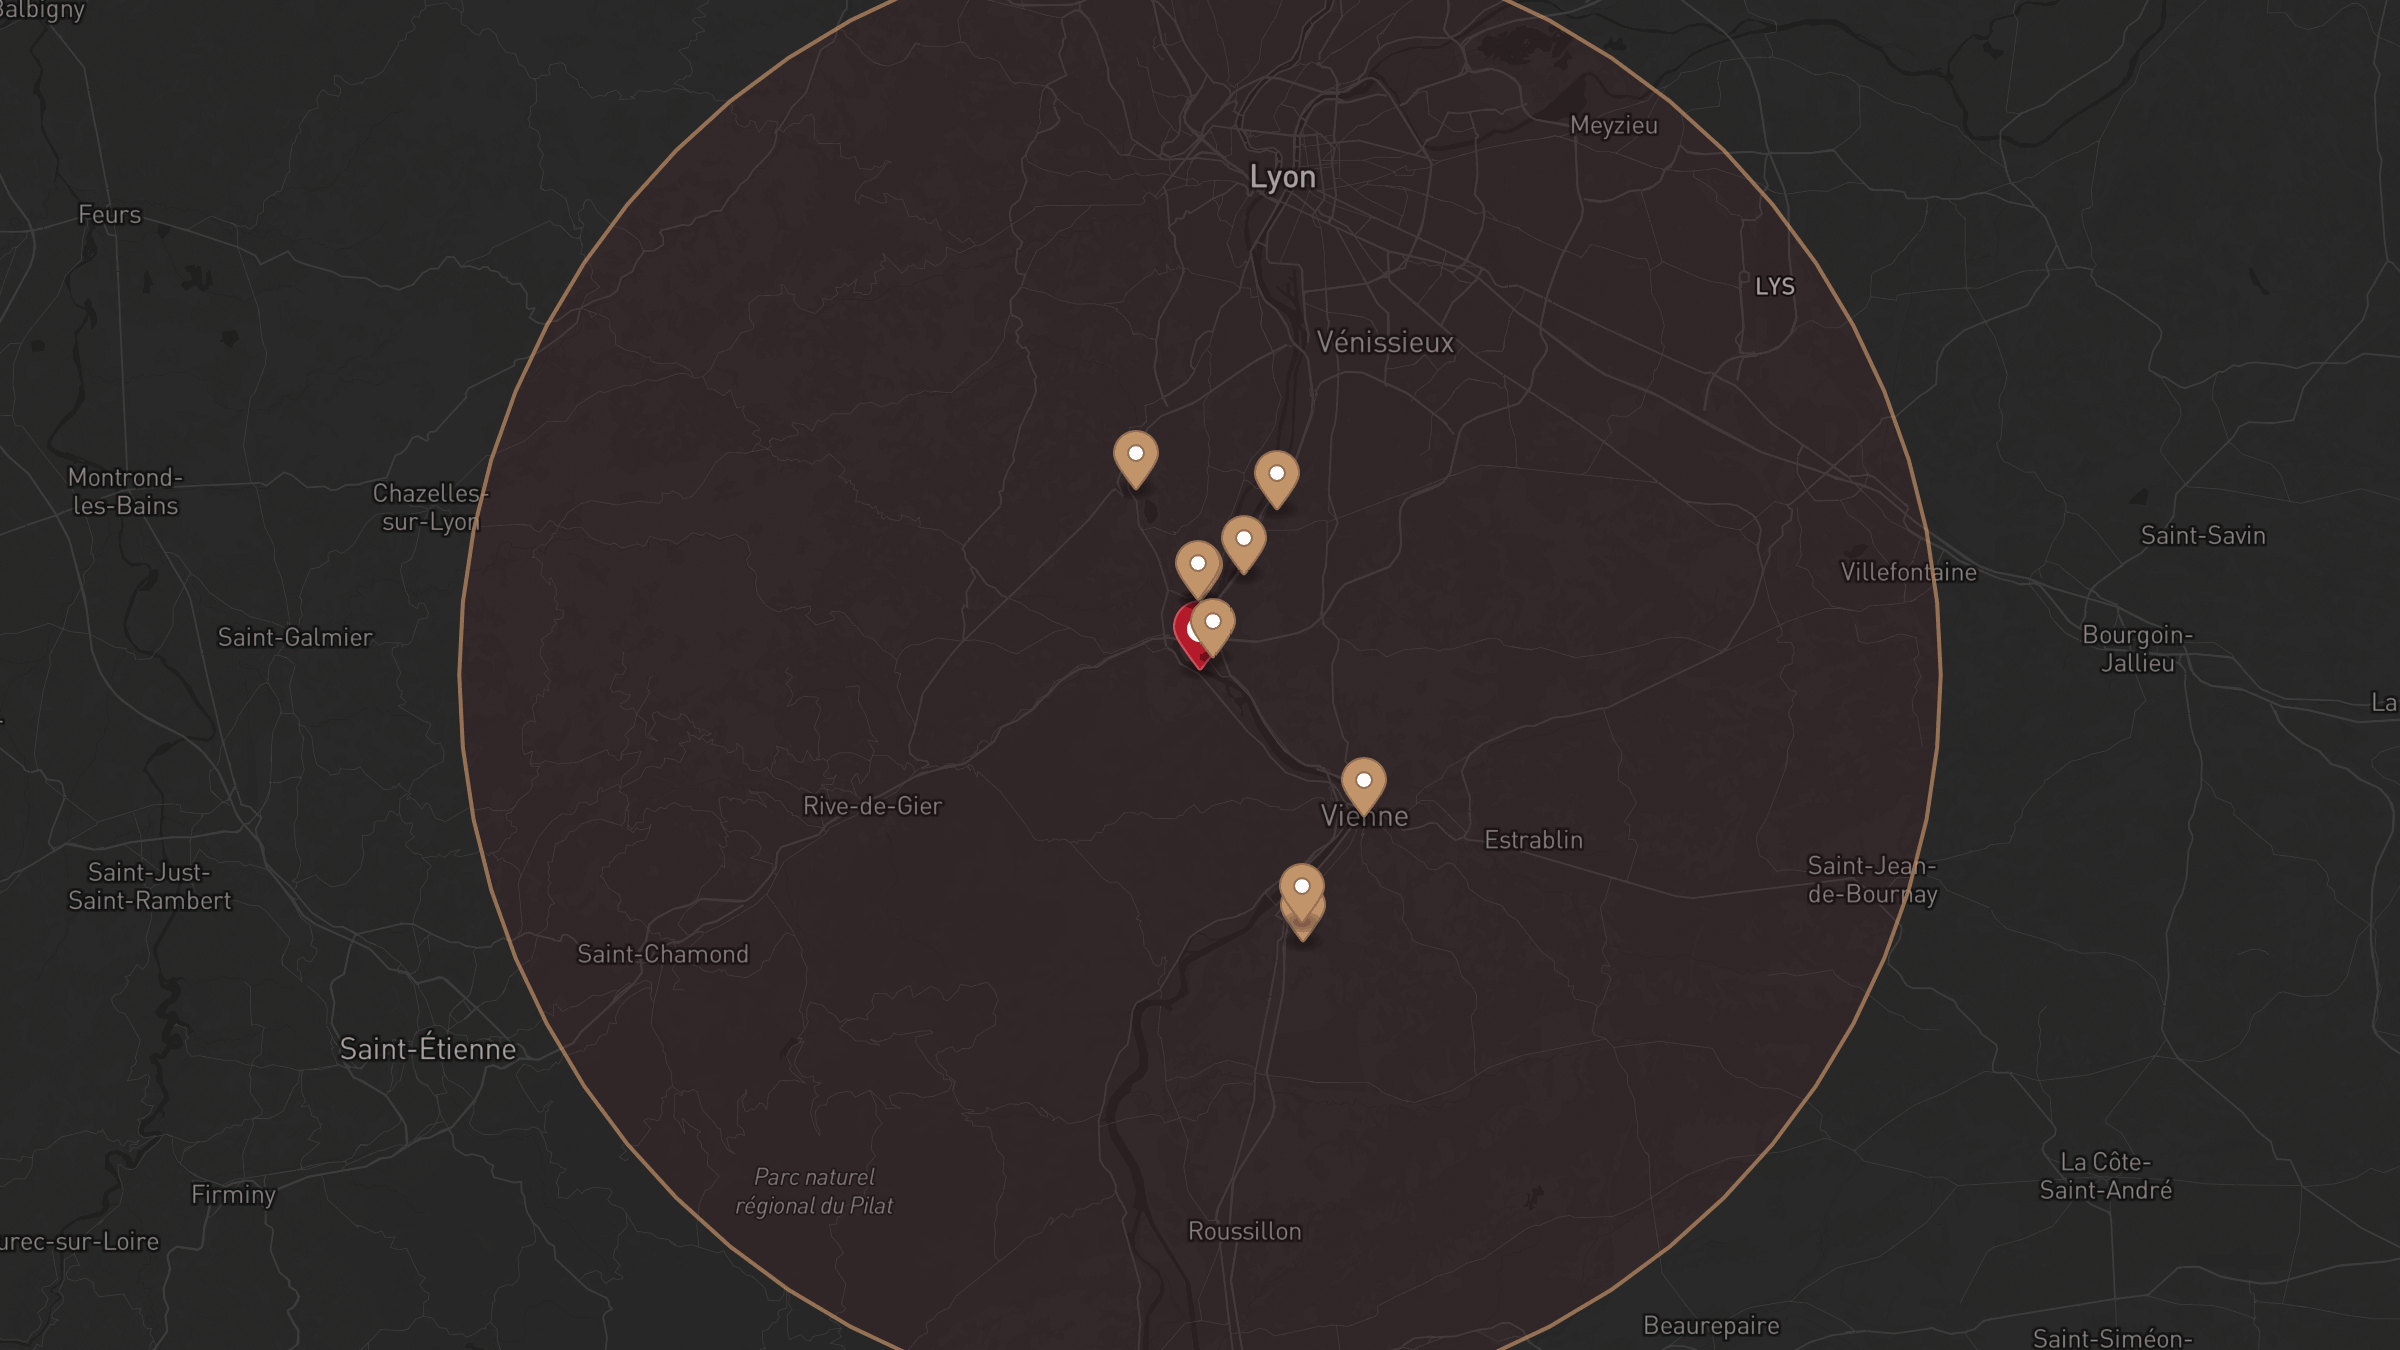
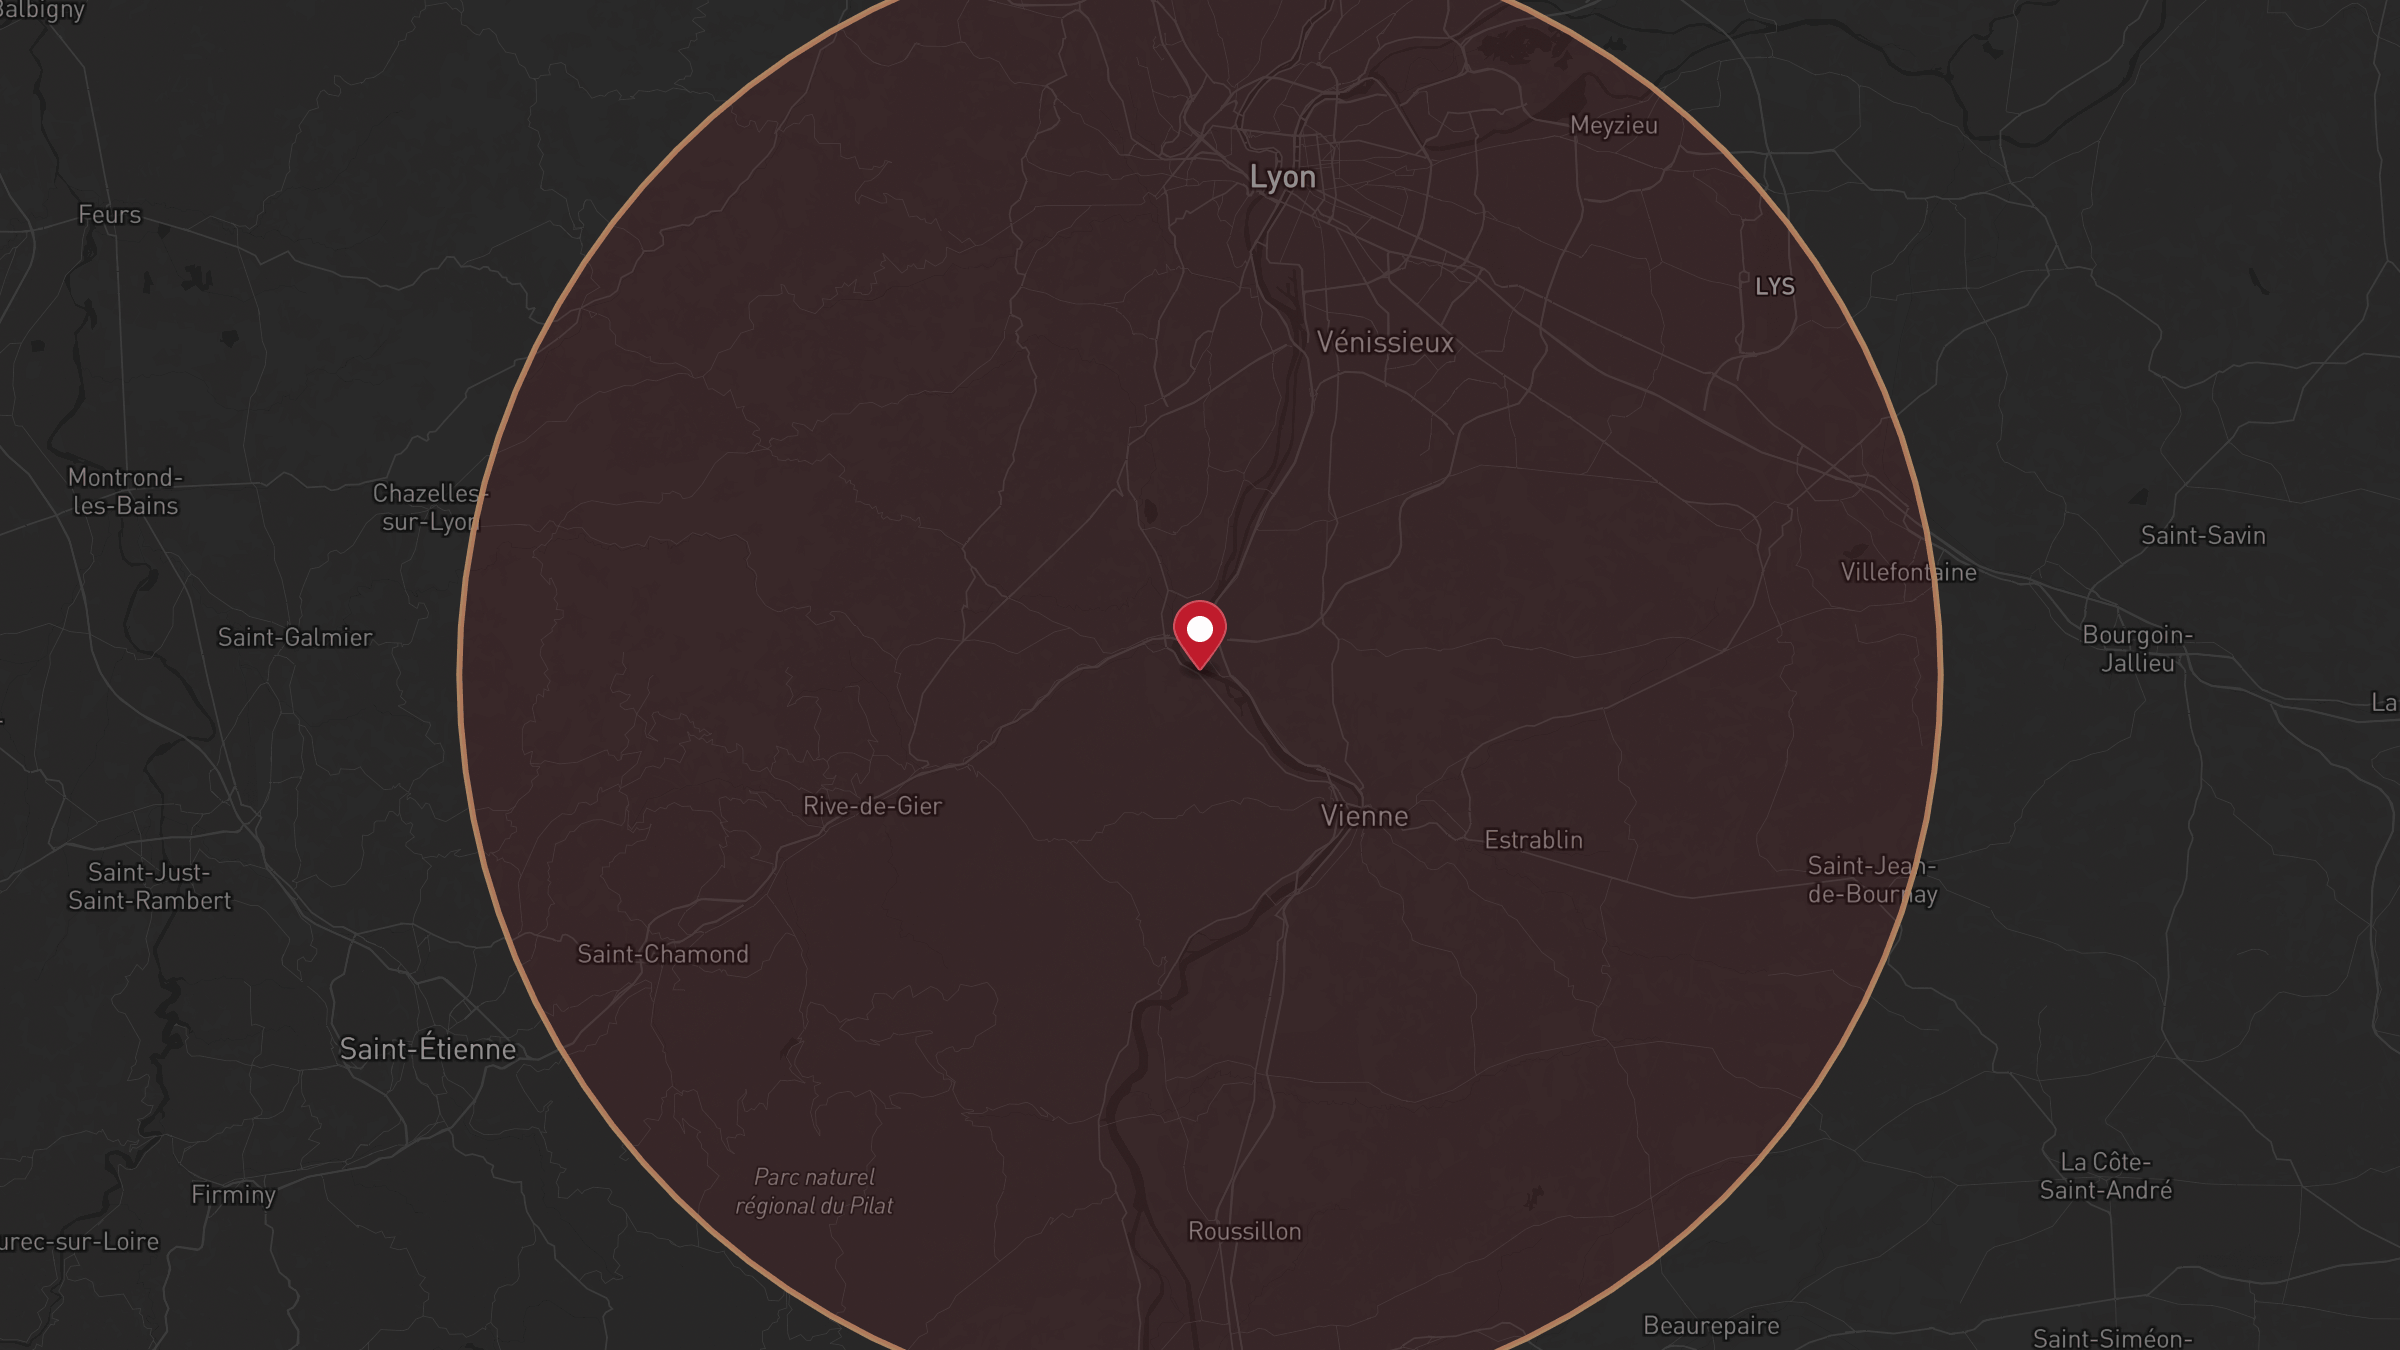
Carte zone : périmètre dominant, plus de netteté
Deux problèmes signalés par l'utilisateur :
  1. Les pins sur les villes secondaires donnaient l'impression que Hugo
     ne travaillait *que* dans ces villes (faux : c'est un rayon)
  2. Le rendu webp était pixelisé (quality 75 + pas de breakpoints retina)

Changements :

- generate-zone-map.mjs :
  - Retire les 9 pins des villes secondaires
  - Garde uniquement le pin Givors (centre)
  - Renforce le cercle 30 km : remplissage rouge transparent (10%)
    + contour bois-clair plus marqué (stroke 3px, opacité 85%)
  - 96 segments pour un cercle bien lisse

- Zone.astro :
  - quality 75 → 90 (moins agressif sur les détails routes/labels)
  - widths [600, 900, 1200] → [600, 900, 1200, 1800, 2400]
    pour servir des sources nettes sur écrans Retina/HiDPI
  - Badge "Rayon 30 km" en overlay CSS bas-droit

- components.css : .zone-map-badge avec backdrop-blur, fond noir
  semi-transparent et bordure bois-clair pour rester cohérent
  avec la charte de la section

diff --git a/src/styles/components.css b/src/styles/components.css
@@ -513,6 +513,22 @@ section {
   box-shadow: inset 0 0 80px rgba(26, 18, 16, 0.55);
   border-radius: var(--radius-lg);
 }
+.zone-map-badge {
+  position: absolute;
+  bottom: 1rem;
+  right: 1rem;
+  padding: 0.4rem 0.8rem;
+  background: rgba(26, 18, 16, 0.78);
+  border: 1px solid rgba(196, 149, 106, 0.45);
+  border-radius: var(--radius);
+  color: var(--bois-clair);
+  font-size: 0.72rem;
+  font-weight: 500;
+  letter-spacing: 0.1em;
+  text-transform: uppercase;
+  backdrop-filter: blur(4px);
+  z-index: 2;
+}
 
 /* ─── FAQ ─── */
 .faq {